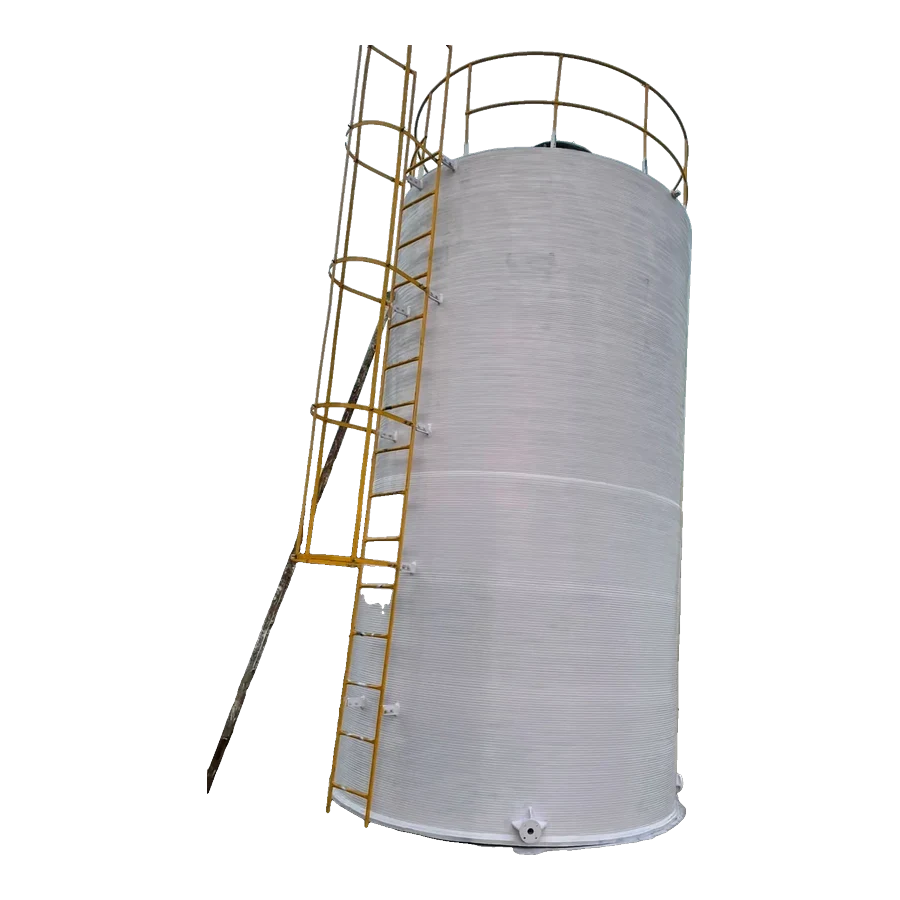
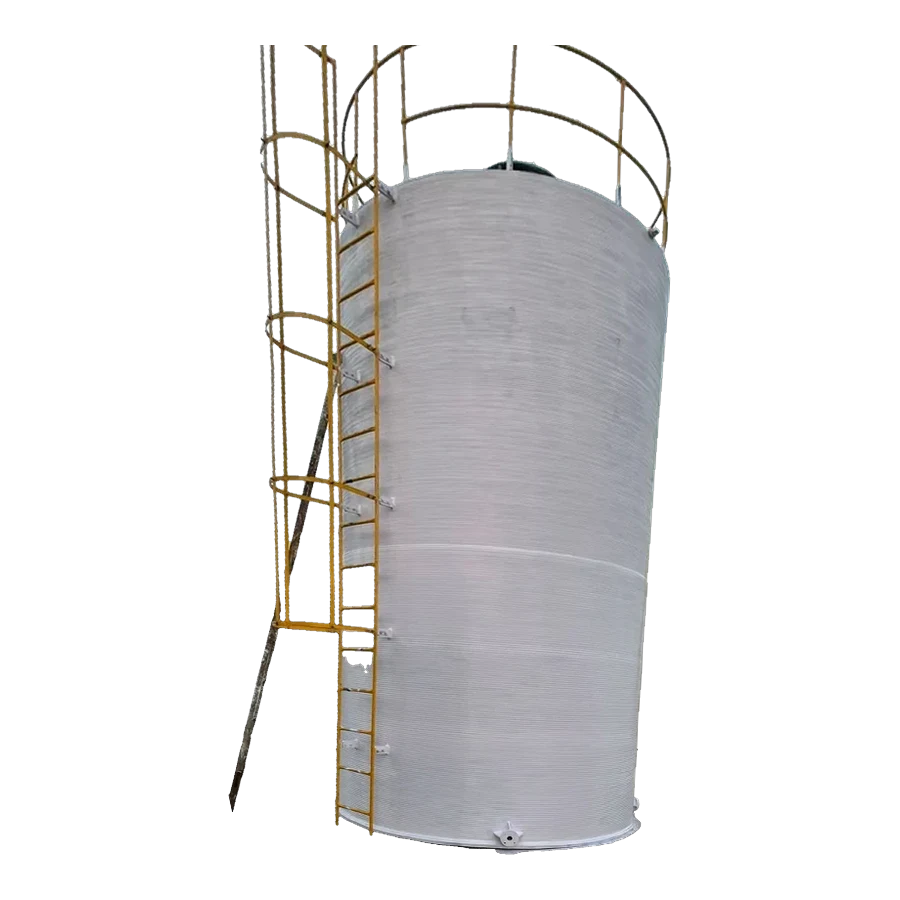
Portfolio ring: straighten the thermoplastic tank

Changed region(s): [[0.2178, 0.0311, 0.7778, 0.9644], [0.4978, 0.6844, 0.56, 0.7156], [0.5289, 0.5911, 0.56, 0.6222]]

diff --git a/dist/index.html b/dist/index.html
@@ -161,7 +161,7 @@
         </div>
         <div class="port__stage" tabindex="0" role="group" aria-label="Product portfolio: drag or use the arrow keys to turn">
           <div class="port__floor"></div>
-          <div class="port__ring" data-ring><figure class="pitem" data-port-item><img src="assets/portfolio/scrubber.webp?v=2" alt="A packed-column scrubber system built by Plasto-Fab" width="900" height="900" loading="lazy" decoding="async" draggable="false"></figure><figure class="pitem" data-port-item><img src="assets/portfolio/frp-tanks.webp?v=2" alt="Two yellow FRP storage tanks" width="900" height="900" loading="lazy" decoding="async" draggable="false"></figure><figure class="pitem" data-port-item><img src="assets/portfolio/thermo-tank.webp?v=2" alt="A tall thermoplastic storage tank with a cage ladder" width="900" height="900" loading="lazy" decoding="async" draggable="false"></figure><figure class="pitem" data-port-item><img src="assets/portfolio/separation-tank.webp?v=2" alt="A multi-compartment PP separation tank" width="900" height="900" loading="lazy" decoding="async" draggable="false"></figure><figure class="pitem" data-port-item><img src="assets/portfolio/reaction-vessel.webp?v=2" alt="An FRP reaction vessel with its agitator frame" width="900" height="900" loading="lazy" decoding="async" draggable="false"></figure><figure class="pitem" data-port-item><img src="assets/portfolio/vacuum-receiver.webp?v=2" alt="An FRP vacuum receiver on legs" width="900" height="900" loading="lazy" decoding="async" draggable="false"></figure><figure class="pitem" data-port-item><img src="assets/portfolio/blower.webp?v=2" alt="An FRP centrifugal blower on its base frame" width="900" height="900" loading="lazy" decoding="async" draggable="false"></figure><figure class="pitem" data-port-item><img src="assets/portfolio/ducting.webp?v=2" alt="A section of yellow FRP ducting" width="900" height="900" loading="lazy" decoding="async" draggable="false"></figure><figure class="pitem" data-port-item><img src="assets/portfolio/stp.webp?v=2" alt="Filter vessels for a sewage treatment plant" width="900" height="900" loading="lazy" decoding="async" draggable="false"></figure></div>
+          <div class="port__ring" data-ring><figure class="pitem" data-port-item><img src="assets/portfolio/scrubber.webp?v=2" alt="A packed-column scrubber system built by Plasto-Fab" width="900" height="900" loading="lazy" decoding="async" draggable="false"></figure><figure class="pitem" data-port-item><img src="assets/portfolio/frp-tanks.webp?v=2" alt="Two yellow FRP storage tanks" width="900" height="900" loading="lazy" decoding="async" draggable="false"></figure><figure class="pitem" data-port-item><img src="assets/portfolio/thermo-tank.webp?v=3" alt="A tall thermoplastic storage tank with a cage ladder" width="900" height="900" loading="lazy" decoding="async" draggable="false"></figure><figure class="pitem" data-port-item><img src="assets/portfolio/separation-tank.webp?v=2" alt="A multi-compartment PP separation tank" width="900" height="900" loading="lazy" decoding="async" draggable="false"></figure><figure class="pitem" data-port-item><img src="assets/portfolio/reaction-vessel.webp?v=2" alt="An FRP reaction vessel with its agitator frame" width="900" height="900" loading="lazy" decoding="async" draggable="false"></figure><figure class="pitem" data-port-item><img src="assets/portfolio/vacuum-receiver.webp?v=2" alt="An FRP vacuum receiver on legs" width="900" height="900" loading="lazy" decoding="async" draggable="false"></figure><figure class="pitem" data-port-item><img src="assets/portfolio/blower.webp?v=2" alt="An FRP centrifugal blower on its base frame" width="900" height="900" loading="lazy" decoding="async" draggable="false"></figure><figure class="pitem" data-port-item><img src="assets/portfolio/ducting.webp?v=2" alt="A section of yellow FRP ducting" width="900" height="900" loading="lazy" decoding="async" draggable="false"></figure><figure class="pitem" data-port-item><img src="assets/portfolio/stp.webp?v=2" alt="Filter vessels for a sewage treatment plant" width="900" height="900" loading="lazy" decoding="async" draggable="false"></figure></div>
         </div>
       </div>
     </div>

diff --git a/index.html b/index.html
@@ -161,7 +161,7 @@
         </div>
         <div class="port__stage" tabindex="0" role="group" aria-label="Product portfolio: drag or use the arrow keys to turn">
           <div class="port__floor"></div>
-          <div class="port__ring" data-ring><figure class="pitem" data-port-item><img src="assets/portfolio/scrubber.webp?v=2" alt="A packed-column scrubber system built by Plasto-Fab" width="900" height="900" loading="lazy" decoding="async" draggable="false"></figure><figure class="pitem" data-port-item><img src="assets/portfolio/frp-tanks.webp?v=2" alt="Two yellow FRP storage tanks" width="900" height="900" loading="lazy" decoding="async" draggable="false"></figure><figure class="pitem" data-port-item><img src="assets/portfolio/thermo-tank.webp?v=2" alt="A tall thermoplastic storage tank with a cage ladder" width="900" height="900" loading="lazy" decoding="async" draggable="false"></figure><figure class="pitem" data-port-item><img src="assets/portfolio/separation-tank.webp?v=2" alt="A multi-compartment PP separation tank" width="900" height="900" loading="lazy" decoding="async" draggable="false"></figure><figure class="pitem" data-port-item><img src="assets/portfolio/reaction-vessel.webp?v=2" alt="An FRP reaction vessel with its agitator frame" width="900" height="900" loading="lazy" decoding="async" draggable="false"></figure><figure class="pitem" data-port-item><img src="assets/portfolio/vacuum-receiver.webp?v=2" alt="An FRP vacuum receiver on legs" width="900" height="900" loading="lazy" decoding="async" draggable="false"></figure><figure class="pitem" data-port-item><img src="assets/portfolio/blower.webp?v=2" alt="An FRP centrifugal blower on its base frame" width="900" height="900" loading="lazy" decoding="async" draggable="false"></figure><figure class="pitem" data-port-item><img src="assets/portfolio/ducting.webp?v=2" alt="A section of yellow FRP ducting" width="900" height="900" loading="lazy" decoding="async" draggable="false"></figure><figure class="pitem" data-port-item><img src="assets/portfolio/stp.webp?v=2" alt="Filter vessels for a sewage treatment plant" width="900" height="900" loading="lazy" decoding="async" draggable="false"></figure></div>
+          <div class="port__ring" data-ring><figure class="pitem" data-port-item><img src="assets/portfolio/scrubber.webp?v=2" alt="A packed-column scrubber system built by Plasto-Fab" width="900" height="900" loading="lazy" decoding="async" draggable="false"></figure><figure class="pitem" data-port-item><img src="assets/portfolio/frp-tanks.webp?v=2" alt="Two yellow FRP storage tanks" width="900" height="900" loading="lazy" decoding="async" draggable="false"></figure><figure class="pitem" data-port-item><img src="assets/portfolio/thermo-tank.webp?v=3" alt="A tall thermoplastic storage tank with a cage ladder" width="900" height="900" loading="lazy" decoding="async" draggable="false"></figure><figure class="pitem" data-port-item><img src="assets/portfolio/separation-tank.webp?v=2" alt="A multi-compartment PP separation tank" width="900" height="900" loading="lazy" decoding="async" draggable="false"></figure><figure class="pitem" data-port-item><img src="assets/portfolio/reaction-vessel.webp?v=2" alt="An FRP reaction vessel with its agitator frame" width="900" height="900" loading="lazy" decoding="async" draggable="false"></figure><figure class="pitem" data-port-item><img src="assets/portfolio/vacuum-receiver.webp?v=2" alt="An FRP vacuum receiver on legs" width="900" height="900" loading="lazy" decoding="async" draggable="false"></figure><figure class="pitem" data-port-item><img src="assets/portfolio/blower.webp?v=2" alt="An FRP centrifugal blower on its base frame" width="900" height="900" loading="lazy" decoding="async" draggable="false"></figure><figure class="pitem" data-port-item><img src="assets/portfolio/ducting.webp?v=2" alt="A section of yellow FRP ducting" width="900" height="900" loading="lazy" decoding="async" draggable="false"></figure><figure class="pitem" data-port-item><img src="assets/portfolio/stp.webp?v=2" alt="Filter vessels for a sewage treatment plant" width="900" height="900" loading="lazy" decoding="async" draggable="false"></figure></div>
         </div>
       </div>
     </div>

diff --git a/README.md b/README.md
@@ -26,7 +26,7 @@ The scrubber is meant to look like real equipment: a packed column with an exhau
 
 ## The rest of the home page
 
-- **Product portfolio** (`.port`): nine equipment families on a 3D ring you turn by dragging or swiping (or the arrows, arrow keys or the list). It turns on its own while on screen until someone takes over; the page scrolls normally past it. The pictures are Plasto-Fab's own photos with the background cut out (rembg `isnet-general-use`), fitted into 900×900 transparent WebPs: scrubber ← `wix/scrubbing-system/01`, FRP tanks ← `storage-tanks/21`, thermoplastic tank ← `storage-tanks/12`, separation tank ← `sewage-plant/04`, reaction vessel ← `reaction-vessels/00`, vacuum receiver ← `vacuum-receiver/04`, blower ← `centrifugal-blower/00`, ducting ← `ducting/01`, STP ← `sewage-plant/02`. The older Codex renders are still in `ref/renders/`.
+- **Product portfolio** (`.port`): nine equipment families on a 3D ring you turn by dragging or swiping (or the arrows, arrow keys or the list). It turns on its own while on screen until someone takes over; the page scrolls normally past it. The pictures are Plasto-Fab's own photos with the background cut out (rembg `isnet-general-use`), fitted into 900×900 transparent WebPs: scrubber ← `wix/scrubbing-system/01`, FRP tanks ← `storage-tanks/21`, thermoplastic tank ← `storage-tanks/12` (perspective-straightened, the photo was shot from low down), separation tank ← `sewage-plant/04`, reaction vessel ← `reaction-vessels/00`, vacuum receiver ← `vacuum-receiver/04`, blower ← `centrifugal-blower/00`, ducting ← `ducting/01`, STP ← `sewage-plant/02`. The older Codex renders are still in `ref/renders/`.
 - **Work gallery** (`#range`): 10 cards of real work photos in a strip that scrolls sideways (arrows, drag, swipe or arrow keys), including FRP/GRP, thermoplastic and pickling tanks. Each photo is shown whole, over a soft blur of itself. Each card's "Get a quote" ticks the matching project type in the form at the bottom.
 - **Industries:** chemical, pharma, water, electroplating and the others they serve.
 - **Why choose Plasto-Fab:** four points as cards with big gradient numbers.
